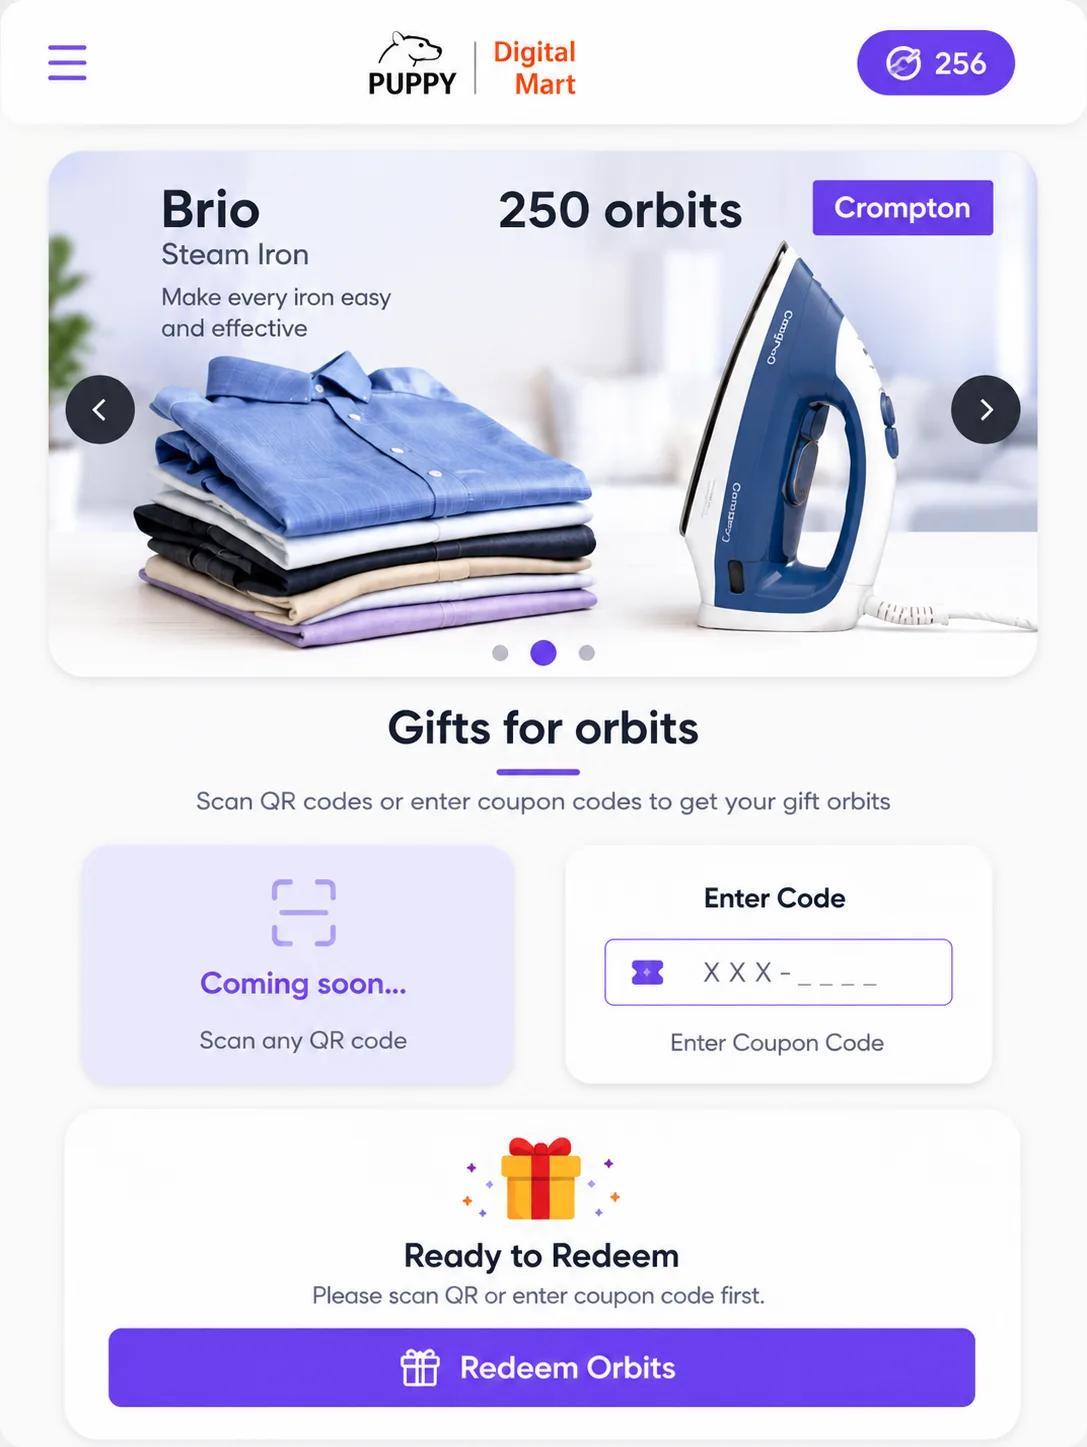
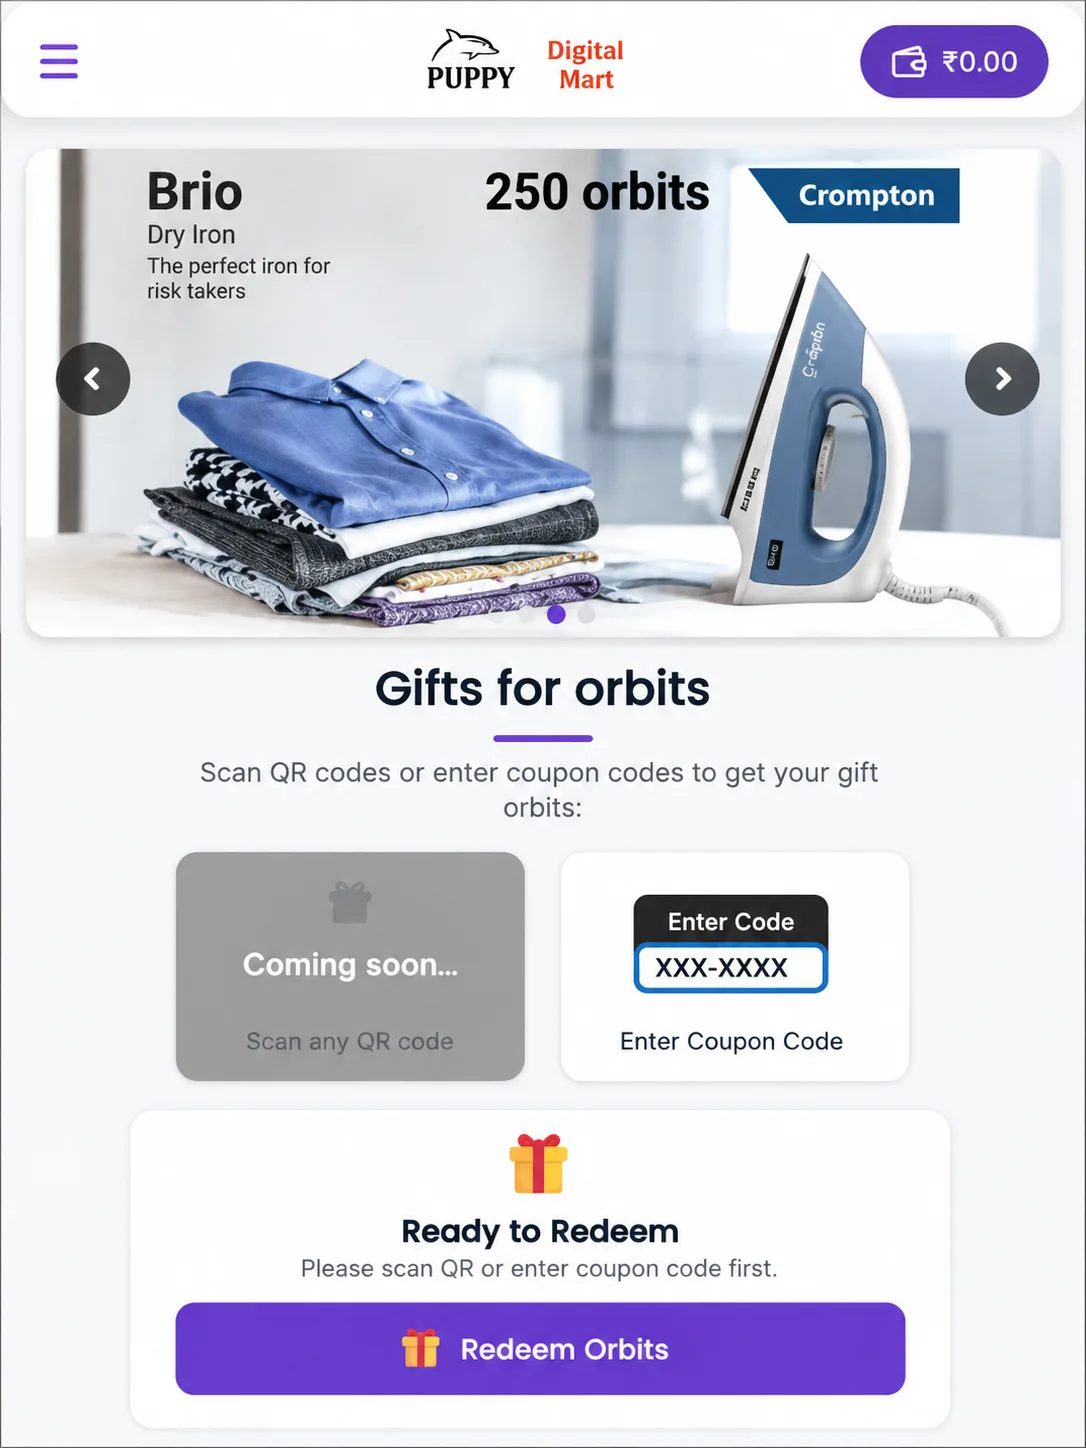
Use founder photo on journal author, convert re-added PNGs to webp

diff --git a/src/data/portfolio.ts b/src/data/portfolio.ts
@@ -36,7 +36,7 @@ export const projects: Project[] = [
     summary:
       "The Vinayakar Chaturthi police portal for Namakkal district — 750+ idol registrations, live immersion tracking and festival operations in one platform.",
     cover: { from: "#FF5A2E", to: "#434A5C" },
-    coverImage: "/portfolio/vc-police-portal/vc-police-portal-overview.png",
+    coverImage: "/portfolio/vc-police-portal/vc-police-portal-overview.webp",
     coverBg: "#F8F8F9",
     overview:
       "Built for Namakkal District Police under the direct guidance of the Superintendent of Police, and deployed for Vinayakar Chaturthi in September 2024. The portal digitised the planning and monitoring of idol installation and immersion across the district — registration, route oversight and field coordination in a single platform, used live during the festival.",
@@ -52,9 +52,9 @@ export const projects: Project[] = [
       { value: "25+", label: "Immersions live-tracked in pilot testing" },
     ],
     gallery: [
-      { from: "#FF5A2E", to: "#434A5C", label: "SP dashboard", image: "/portfolio/vc-police-portal/sp-dashboard.png" },
-      { from: "#2E3340", to: "#0E0F14", label: "Registration & review", image: "/portfolio/vc-police-portal/sp-view.png" },
-      { from: "#FF7A4E", to: "#C42F09", label: "Live immersion map", image: "/portfolio/vc-police-portal/map-page.png" },
+      { from: "#FF5A2E", to: "#434A5C", label: "SP dashboard", image: "/portfolio/vc-police-portal/sp-dashboard.webp" },
+      { from: "#2E3340", to: "#0E0F14", label: "Registration & review", image: "/portfolio/vc-police-portal/sp-view.webp" },
+      { from: "#FF7A4E", to: "#C42F09", label: "Live immersion map", image: "/portfolio/vc-police-portal/map-page.webp" },
     ],
     beforeAfter: {
       before: "Paper registers at each station, no consolidated district view, and no way for command staff to see immersion movements as they happened.",
@@ -109,7 +109,7 @@ export const projects: Project[] = [
     summary:
       "Connecting local businesses with customers through a unified digital marketplace for their products.",
     cover: { from: "#434A5C", to: "#1B1E27" },
-    coverImage: "/portfolio/puppy-digital-mart/puppy-digital-overview.png",
+    coverImage: "/portfolio/puppy-digital-mart/puppy-digital-overview.webp",
     coverBg: "#F4F8FD",
     overview:
       "Puppy Digital Mart was created to help local vendors embrace digital commerce through a centralized marketplace for gift cards. The platform enables businesses to showcase their offerings, manage digital vouchers, and connect with a wider customer base through a seamless online purchasing experience.",
@@ -125,9 +125,9 @@ export const projects: Project[] = [
       { value: "Expanded", label: "Expanded reach for local retailers" },
     ],
     gallery: [
-      { from: "#434A5C", to: "#1B1E27", label: "Redemption requests", image: "/portfolio/puppy-digital-mart/redemption-requests.png" },
-      { from: "#8A90A0", to: "#434A5C", label: "User management", image: "/portfolio/puppy-digital-mart/user-management.png" },
-      { from: "#FF5A2E", to: "#8F2409", label: "Marketplace home", image: "/portfolio/puppy-digital-mart/home.png" },
+      { from: "#434A5C", to: "#1B1E27", label: "Redemption requests", image: "/portfolio/puppy-digital-mart/redemption-requests.webp" },
+      { from: "#8A90A0", to: "#434A5C", label: "User management", image: "/portfolio/puppy-digital-mart/user-management.webp" },
+      { from: "#FF5A2E", to: "#8F2409", label: "Marketplace home", image: "/portfolio/puppy-digital-mart/home.webp" },
     ],
     beforeAfter: {
       before: "Local vendors relied on fragmented sales channels with limited digital visibility, making it difficult to promote and sell gift cards effectively.",

diff --git a/src/app/blog/[slug]/page.tsx b/src/app/blog/[slug]/page.tsx
@@ -8,6 +8,7 @@ import { CtaSection } from "@/components/home/cta-section";
 import { Reveal } from "@/components/interactive/reveal";
 import { formatDate } from "@/lib/format";
 import { siteConfig, absoluteUrl } from "@/lib/site";
+import { FounderAvatar } from "@/components/ui/founder-avatar";
 
 export function generateStaticParams() {
   return posts.map((p) => ({ slug: p.slug }));
@@ -82,9 +83,13 @@ export default async function PostPage({ params }: { params: Promise<{ slug: str
             <h1 className="mt-5 display-lg">{post.title}</h1>
             <p className="mt-5 text-xl text-muted-foreground">{post.excerpt}</p>
             <div className="mt-6 flex items-center gap-3">
-              <span className="grid h-11 w-11 place-items-center rounded-full bg-brand-gradient font-display text-sm font-semibold text-white">
-                {post.author.name.split(" ").map((n) => n[0]).join("")}
-              </span>
+              {post.author.name === siteConfig.founder ? (
+                <FounderAvatar size={44} />
+              ) : (
+                <span className="grid h-11 w-11 place-items-center rounded-full bg-brand-gradient font-display text-sm font-semibold text-white">
+                  {post.author.name.split(" ").map((n) => n[0]).join("")}
+                </span>
+              )}
               <div>
                 <p className="text-sm font-medium text-foreground">{post.author.name}</p>
                 <p className="text-xs text-muted-foreground">{post.author.role}</p>

diff --git a/src/lib/site.ts b/src/lib/site.ts
@@ -11,7 +11,7 @@ export const siteConfig = {
   ogImage: "/og.png",
   founder: "Akash M G",
   founderRole: "Founder & Creative Technologist",
-  founderImage: "/founder.png",
+  founderImage: "/founder.webp",
   // Corporate Identification Number — Registrar of Companies, Chennai.
   cin: "U62011TN2026PTC188074",
   incorporated: "2026",
